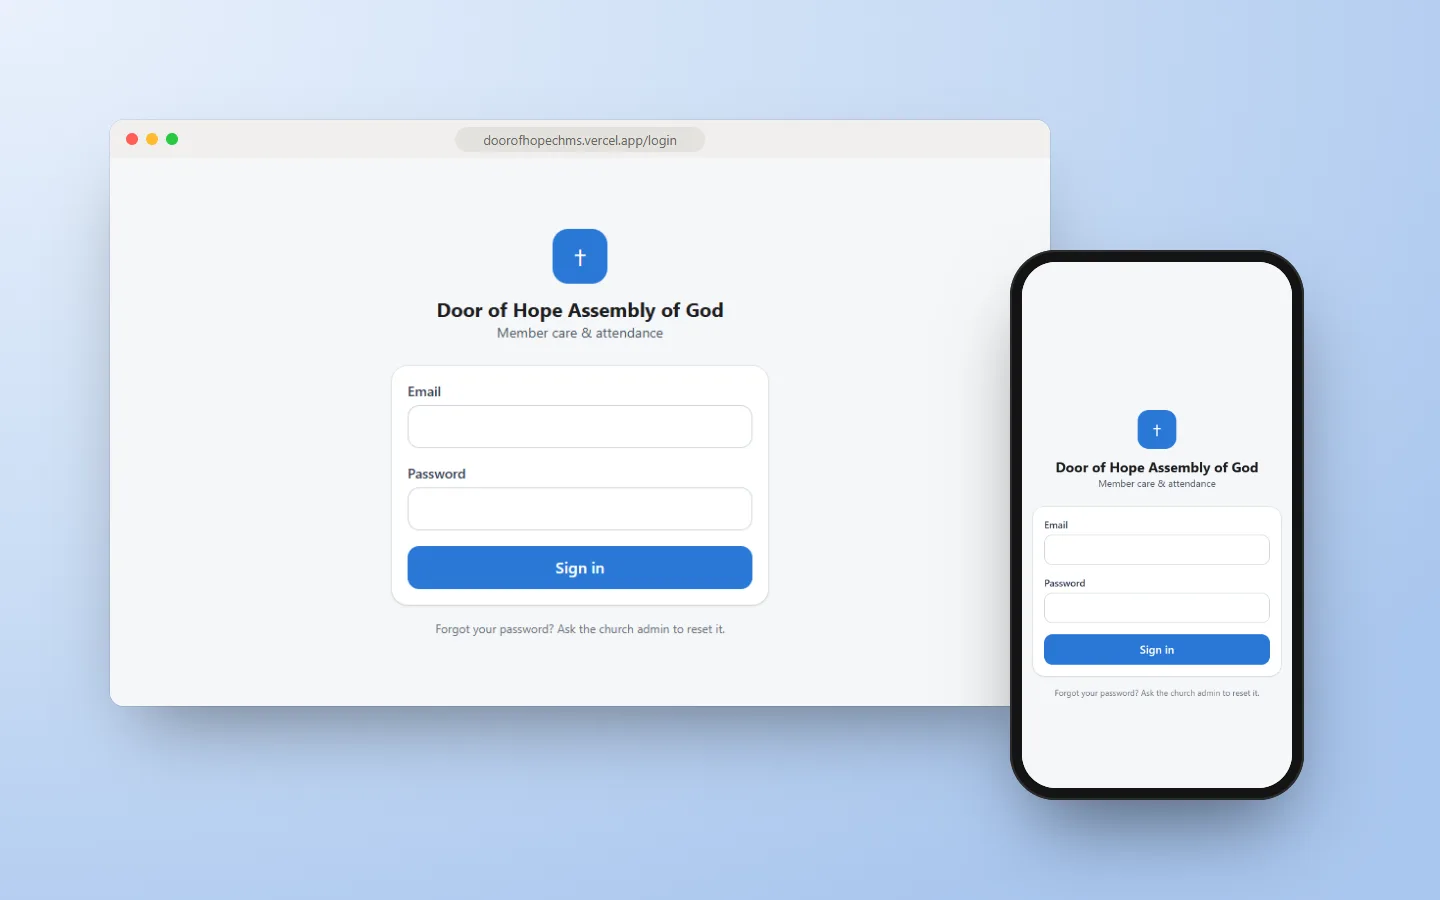
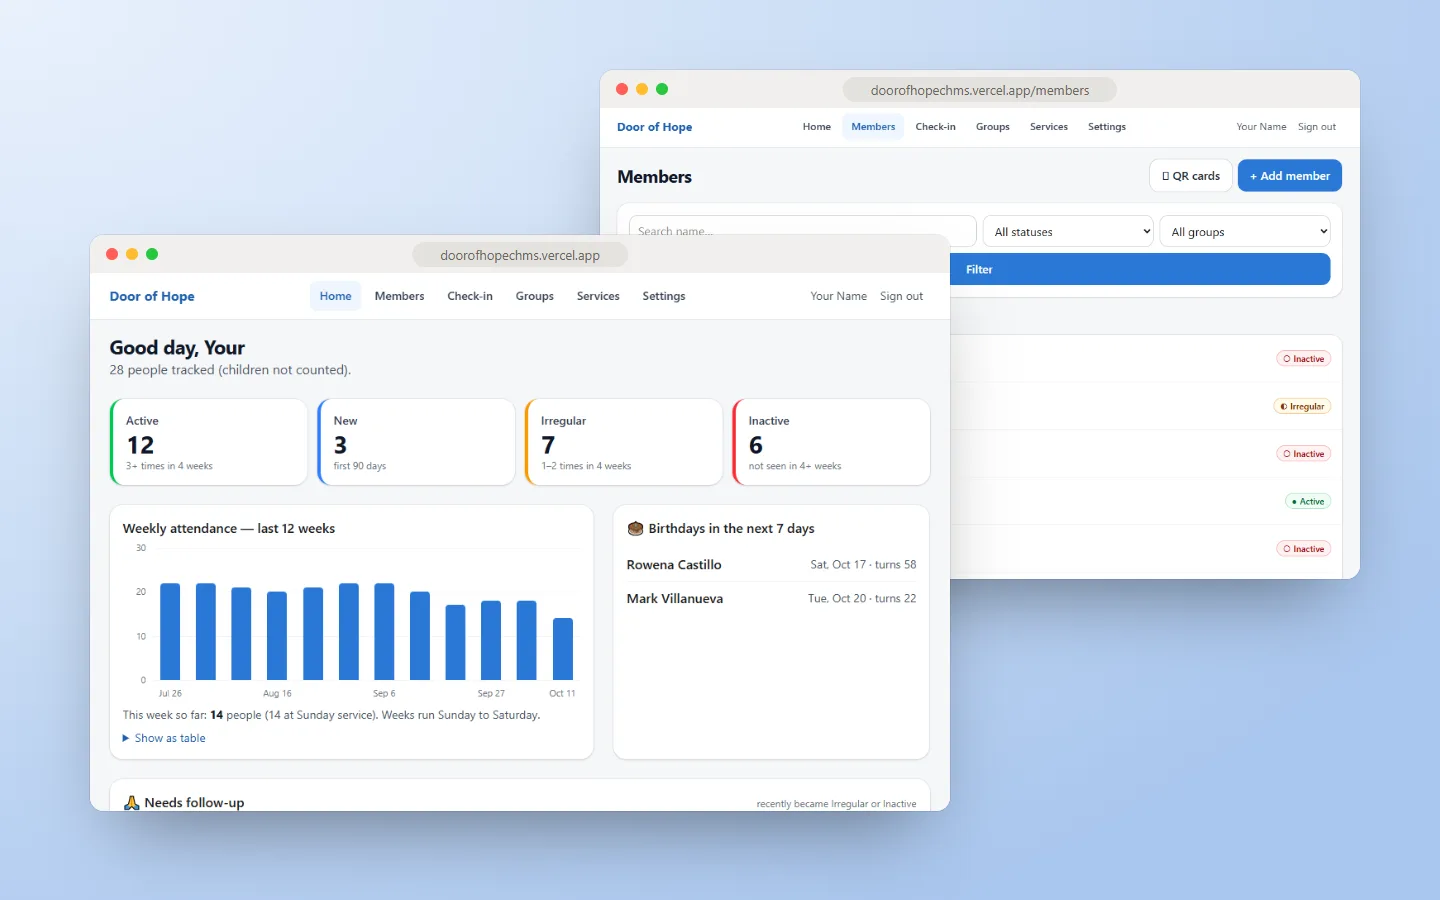
Show the Door of Hope dashboard on its project card
Replace the sign-in screenshot with the real dashboard and members
list (sample data from seed.sql), so the card shows what the app does.

diff --git a/src/data/portfolio.js b/src/data/portfolio.js
@@ -173,7 +173,7 @@ export const projects = [
       'A phone-friendly church management system for Door of Hope Assembly of God: member records, QR-code check-in, automatic attendance status, role-based access and a pastor’s dashboard that flags who needs a follow-up.',
     tech: ['Next.js', 'React', 'TypeScript', 'Tailwind CSS', 'Supabase'],
     image: 'images/projects/door-of-hope.webp',
-    imageAlt: 'Door of Hope ChMS sign-in screen on desktop and mobile',
+    imageAlt: 'Door of Hope ChMS dashboard with member status counts and a weekly attendance chart, in front of the members list',
     github: `${GITHUB}/Door-of-Hope-ChMS`,
     demo: 'https://doorofhopechms.vercel.app',
     demoLabel: 'Live site',
